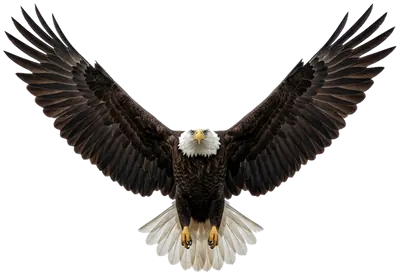
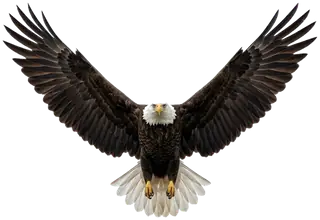
perf(lcp): optimize mobile hero LCP to 8.6KB and prioritize mountain background preload

diff --git a/src/components/home/MountainHeroTheme.tsx b/src/components/home/MountainHeroTheme.tsx
@@ -14,19 +14,15 @@ export function MountainHeroTheme() {
     >
       {/* 1. REAL CINEMATIC PHOTOGRAPHIC MOUNTAIN LANDSCAPE */}
       <div className="absolute inset-0 w-full h-full">
-        {/* Real Mountain Photography (Optimized WebP, 96% lighter on mobile) */}
+        {/* Real Mountain Photography (Ultra-fast 8.6 KB WebP for mobile) */}
         <picture className="absolute inset-0 w-full h-full block">
           <source
-            media="(max-width: 768px)"
-            srcSet="/images/mountain_bg_mobile.webp"
-            type="image/webp"
-          />
-          <source
+            media="(min-width: 769px)"
             srcSet="/images/mountain_bg.webp"
             type="image/webp"
           />
           <img
-            src="/images/mountain_bg.jpg"
+            src="/images/mountain_bg_mobile.webp"
             alt="Cinematic Mountain peaks"
             fetchPriority="high"
             loading="eager"
@@ -48,11 +44,10 @@ export function MountainHeroTheme() {
           <picture>
             <source srcSet="/images/eagle.webp" type="image/webp" />
             <img
-              src="/images/eagle.png"
+              src="/images/eagle.webp"
               alt="Real soaring eagle"
               width={224}
               height={154}
-              fetchPriority="high"
               loading="eager"
               decoding="async"
               className="w-full h-auto object-contain select-none pointer-events-none animate-real-eagle-flap"
@@ -68,7 +63,7 @@ export function MountainHeroTheme() {
           <picture>
             <source srcSet="/images/eagle.webp" type="image/webp" />
             <img
-              src="/images/eagle.png"
+              src="/images/eagle.webp"
               alt="Distant eagle"
               width={96}
               height={66}

diff --git a/src/app/layout.tsx b/src/app/layout.tsx
@@ -64,13 +64,6 @@ export default function RootLayout({
           fetchPriority="high"
           type="image/webp"
         />
-        <link
-          rel="preload"
-          as="image"
-          href="/images/eagle.webp"
-          fetchPriority="high"
-          type="image/webp"
-        />
       </head>
       <body className="min-h-screen flex flex-col bg-slate-50 text-slate-900 font-sans antialiased selection:bg-brand-500 selection:text-white pb-28 md:pb-0">
         <Header />

diff --git a/src/components/common/Logo.tsx b/src/components/common/Logo.tsx
@@ -25,7 +25,6 @@ export function Logo({
           width={iconSize}
           height={iconSize}
           className="w-full h-full object-contain filter drop-shadow-md"
-          priority
         />
       </div>
 
